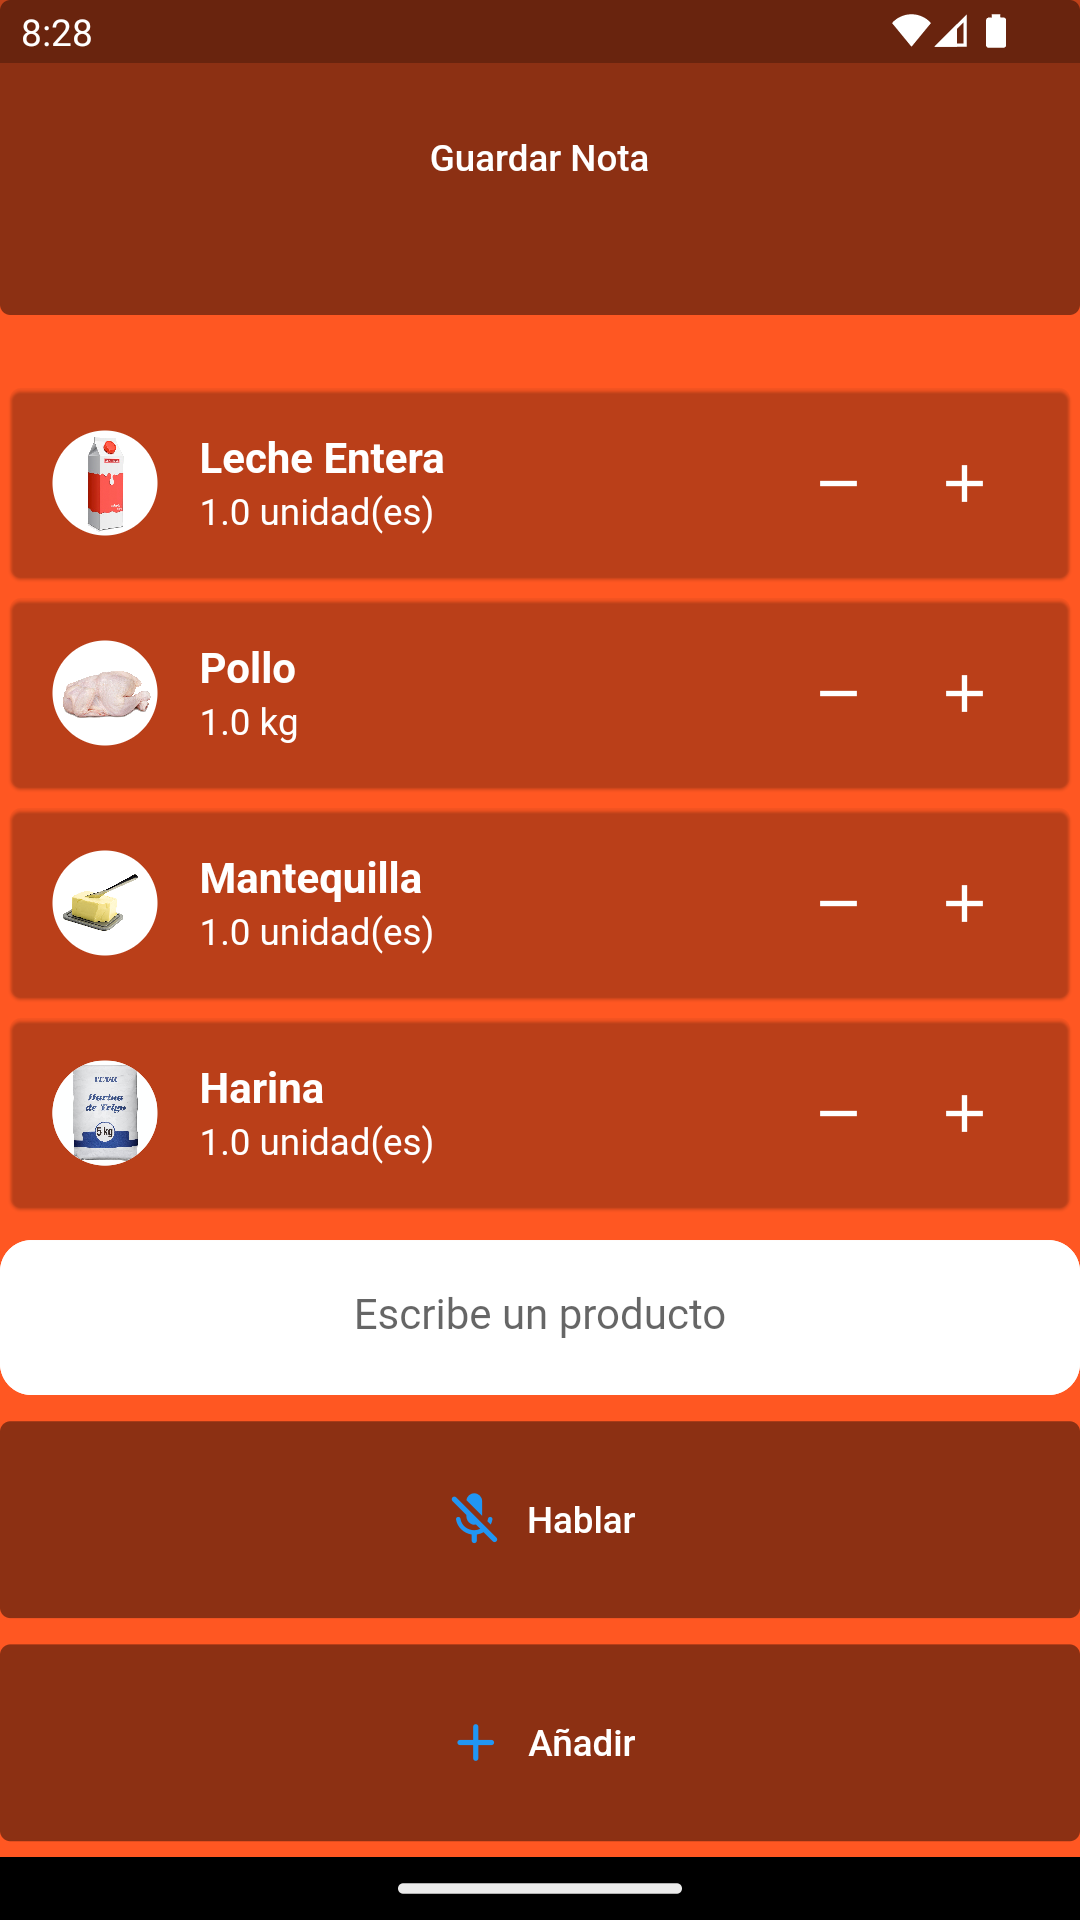
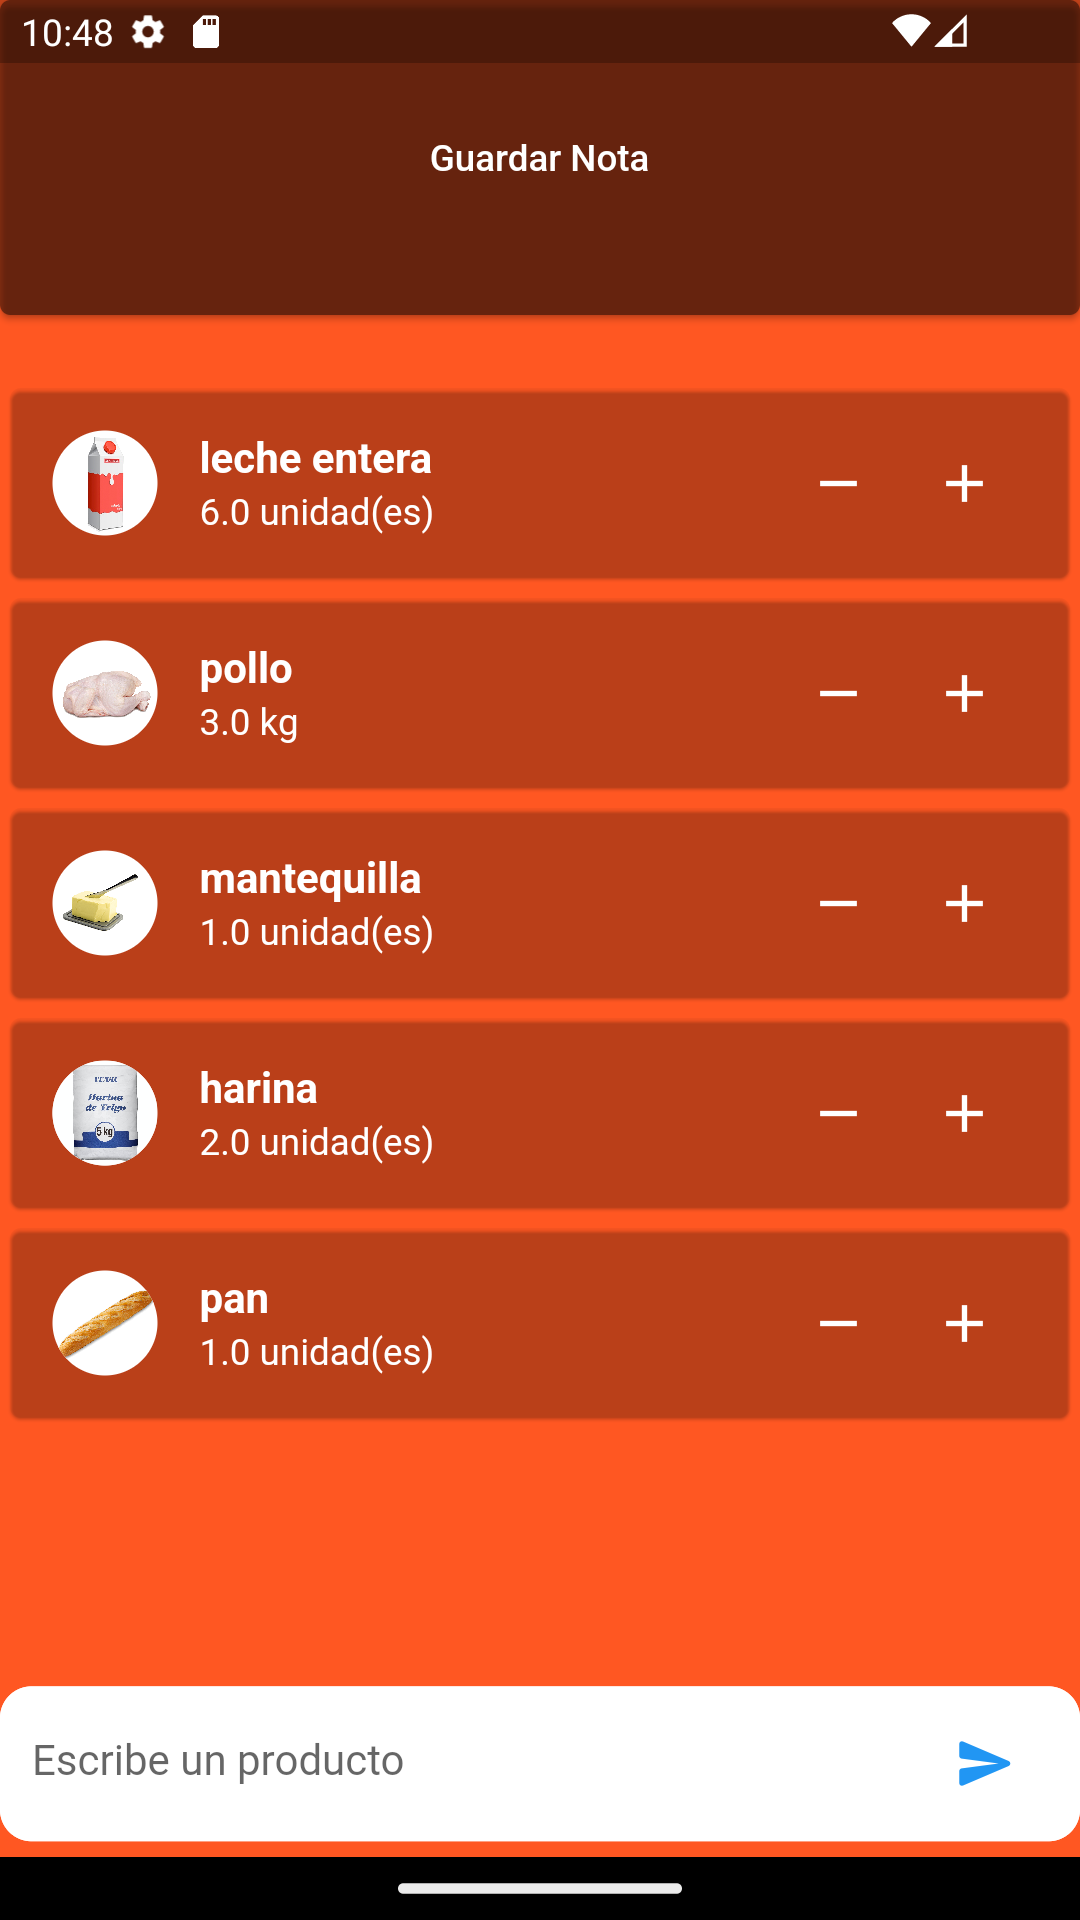
Visual changes

diff --git a/lib/create.dart b/lib/create.dart
@@ -97,7 +97,6 @@ class _CreateState extends State<Create>{
       listened = result.recognizedWords;
       if (listened.isNotEmpty){
         addProductToList(listened);
-        stopListening();
       }
     });
   }
@@ -753,7 +752,7 @@ class _CreateState extends State<Create>{
             child : SizedBox(
               width: double.infinity,
               height: 40,
-              child : TextButton(
+              child : ElevatedButton(
                 style: ElevatedButton.styleFrom(
                   backgroundColor: Colors.black45,
                   padding: const EdgeInsets.all(12.0),
@@ -779,7 +778,7 @@ class _CreateState extends State<Create>{
           if (currentFood.isEmpty)
             Expanded(
             child: Column(children: [
-              SizedBox(height: 10,),
+              SizedBox(height: 70,),
             Image.asset("assets/images/empty_basket.png"), Text("Tu cesta esta vacía\nAñade algun producto", style: TextStyle(color: Colors.white, fontSize: 20, fontWeight: FontWeight.bold),)])),
 
           Expanded(
@@ -844,7 +843,7 @@ class _CreateState extends State<Create>{
           ),
 
           TextFormField(
-            textAlign: TextAlign.center,
+            textAlign: TextAlign.left,
             style: TextStyle(color: Colors.black),
             decoration: InputDecoration(
                 fillColor: Colors.white,
